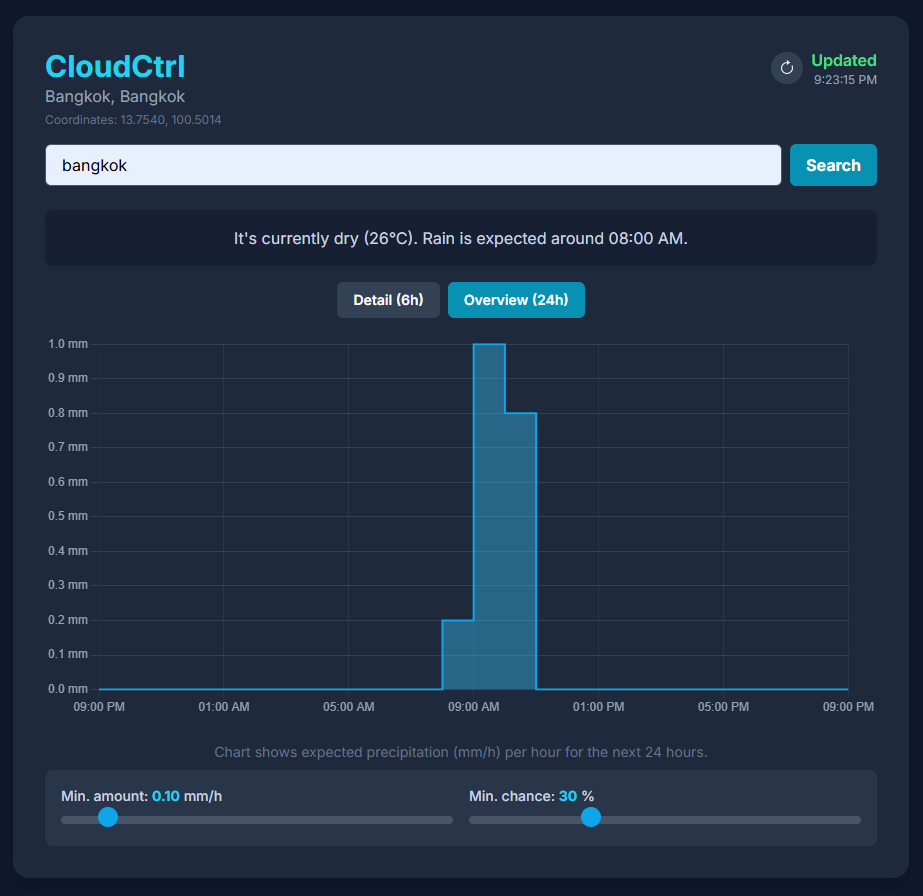
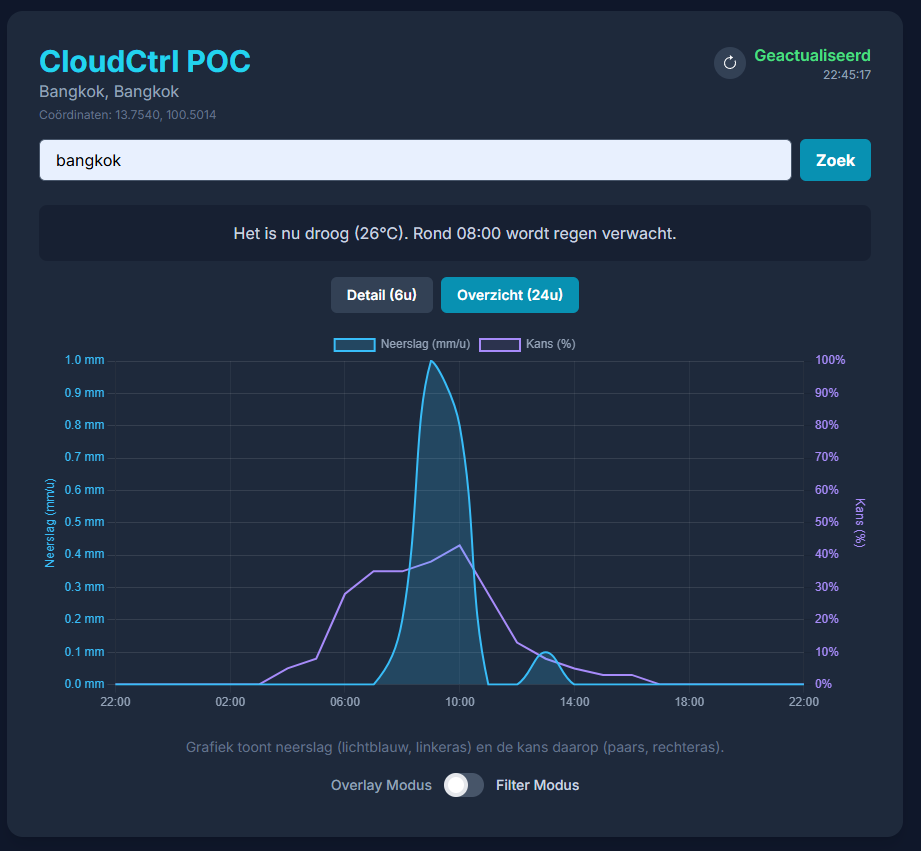
ammount and prediction

diff --git a/index.html b/index.html
@@ -1,9 +1,9 @@
 <!DOCTYPE html>
-<html lang="en">
+<html lang="nl">
 <head>
     <meta charset="UTF-8">
     <meta name="viewport" content="width=device-width, initial-scale=1.0">
-    <title>CloudCtrl</title>
+    <title>CloudCtrl POC (met Overlay Modus)</title>
     
     <script src="https://cdn.tailwindcss.com"></script>
     <script src="https://cdn.jsdelivr.net/npm/chart.js"></script>
@@ -15,8 +15,14 @@
         body { font-family: 'Inter', sans-serif; }
         .loader { border: 4px solid rgba(255, 255, 255, 0.2); border-left-color: #0ea5e9; border-radius: 50%; width: 40px; height: 40px; animation: spin 1s linear infinite; }
         @keyframes spin { to { transform: rotate(360deg); } }
+        
+        /* Stijlen voor de schuifregelaar */
         input[type=range]::-webkit-slider-thumb { -webkit-appearance: none; appearance: none; width: 20px; height: 20px; background: #0ea5e9; cursor: pointer; border-radius: 50%; margin-top: -6px; }
         input[type=range]::-moz-range-thumb { width: 20px; height: 20px; background: #0ea5e9; cursor: pointer; border-radius: 50%; }
+        
+        /* Stijlen voor de nieuwe toggle switch */
+        .toggle-checkbox:checked { right: 0; border-color: #0ea5e9; }
+        .toggle-checkbox:checked + .toggle-label { background-color: #0ea5e9; }
     </style>
 </head>
 <body class="bg-slate-900 text-white flex items-center justify-center min-h-screen p-4">
@@ -26,31 +32,31 @@
         <div class="mb-6">
              <div class="flex justify-between items-start mb-4">
                  <div>
-                     <h1 class="text-2xl md:text-3xl font-bold text-cyan-400">CloudCtrl</h1>
-                     <p id="location" class="text-slate-400">Requesting location...</p>
+                     <h1 class="text-2xl md:text-3xl font-bold text-cyan-400">CloudCtrl POC</h1>
+                     <p id="location" class="text-slate-400">Locatie opvragen...</p>
                      <p id="locationDetails" class="text-xs text-slate-500 mt-1"></p>
                  </div>
                  <div id="status" class="flex items-center gap-2 text-right">
-                      <button id="refreshButton" class="p-2 rounded-full bg-slate-700 hover:bg-slate-600 transition-colors" title="Refresh data">
+                      <button id="refreshButton" class="p-2 rounded-full bg-slate-700 hover:bg-slate-600 transition-colors" title="Ververs de data">
                           <svg xmlns="http://www.w3.org/2000/svg" width="16" height="16" fill="currentColor" class="bi bi-arrow-clockwise" viewBox="0 0 16 16"><path fill-rule="evenodd" d="M8 3a5 5 0 1 0 4.546 2.914.5.5 0 0 1 .908-.417A6 6 0 1 1 8 2z"/><path d="M8 4.466V.534a.25.25 0 0 1 .41-.192l2.36 1.966c.12.1.12.284 0 .384L8.41 4.658A.25.25 0 0 1 8 4.466"/></svg>
                       </button>
-                      <div id="statusText"><p class="font-semibold text-slate-300">Loading...</p></div>
+                      <div id="statusText"><p class="font-semibold text-slate-300">Laden...</p></div>
                  </div>
-             </div>
+            </div>
             
-             <form id="locationForm" class="flex flex-col sm:flex-row gap-2">
-                 <input type="text" id="locationInput" placeholder="Search for a city or address..." class="flex-grow bg-slate-700 border border-slate-600 rounded-md px-4 py-2 text-white placeholder-slate-400 focus:outline-none focus:ring-2 focus:ring-cyan-500">
-                 <button type="submit" class="bg-cyan-600 hover:bg-cyan-700 text-white font-bold py-2 px-4 rounded-md transition-colors">Search</button>
-             </form>
+            <form id="locationForm" class="flex flex-col sm:flex-row gap-2">
+                <input type="text" id="locationInput" placeholder="Zoek een plaats of adres..." class="flex-grow bg-slate-700 border border-slate-600 rounded-md px-4 py-2 text-white placeholder-slate-400 focus:outline-none focus:ring-2 focus:ring-cyan-500">
+                <button type="submit" class="bg-cyan-600 hover:bg-cyan-700 text-white font-bold py-2 px-4 rounded-md transition-colors">Zoek</button>
+            </form>
         </div>
 
         <div class="bg-slate-900/50 p-4 rounded-lg mb-4 text-center">
-            <p id="forecastSummary" class="text-slate-300">Forecast is loading...</p>
+            <p id="forecastSummary" class="text-slate-300">Voorspelling wordt geladen...</p>
         </div>
 
         <div id="viewToggle" class="flex justify-center mb-4 space-x-2">
-            <button id="btnDetail" class="bg-cyan-600 text-white font-semibold py-2 px-4 rounded-md transition-colors text-sm">Detail (6h)</button>
-            <button id="btnOverview" class="bg-slate-700 hover:bg-slate-600 text-white font-semibold py-2 px-4 rounded-md transition-colors text-sm">Overview (24h)</button>
+            <button id="btnDetail" class="bg-cyan-600 text-white font-semibold py-2 px-4 rounded-md transition-colors text-sm">Detail (6u)</button>
+            <button id="btnOverview" class="bg-slate-700 hover:bg-slate-600 text-white font-semibold py-2 px-4 rounded-md transition-colors text-sm">Overzicht (24u)</button>
         </div>
 
         <div class="relative h-64 md:h-96">
@@ -59,14 +65,25 @@
         </div>
         
         <div class="mt-6 space-y-2">
-            <p id="chartLegend" class="text-center text-slate-500 text-sm">Chart is loading...</p>
-            <div class="p-4 bg-slate-700/50 rounded-lg grid grid-cols-1 md:grid-cols-2 gap-4">
+            <p id="chartLegend" class="text-center text-slate-500 text-sm">Grafiek wordt geladen...</p>
+            
+            <!-- NIEUW: Toggle switch voor filter/overlay modus -->
+            <div class="flex items-center justify-center p-2">
+                 <span class="mr-3 text-sm font-medium text-slate-400">Overlay Modus</span>
+                <div class="relative inline-block w-10 align-middle select-none">
+                    <input type="checkbox" name="filterToggle" id="filterToggle" class="toggle-checkbox absolute block w-6 h-6 rounded-full bg-white border-4 appearance-none cursor-pointer"/>
+                    <label for="filterToggle" class="toggle-label block overflow-hidden h-6 rounded-full bg-slate-600 cursor-pointer"></label>
+                </div>
+                 <span class="ml-3 text-sm font-medium text-slate-300">Filter Modus</span>
+            </div>
+
+            <div id="filterControls" class="p-4 bg-slate-700/50 rounded-lg grid grid-cols-1 md:grid-cols-2 gap-4">
                 <div>
-                    <label for="amountThresholdSlider" class="block text-sm font-medium text-slate-300">Min. amount: <span id="amountThresholdValue" class="font-bold text-cyan-400">0.10</span> mm/h</label>
+                    <label for="amountThresholdSlider" class="block text-sm font-medium text-slate-300">Min. hoeveelheid: <span id="amountThresholdValue" class="font-bold text-cyan-400">0.10</span> mm/u</label>
                     <input type="range" id="amountThresholdSlider" min="0" max="1" step="0.05" value="0.1" class="w-full h-2 bg-slate-600 rounded-lg appearance-none cursor-pointer mt-2">
                 </div>
                 <div>
-                    <label for="probThresholdSlider" class="block text-sm font-medium text-slate-300">Min. chance: <span id="probThresholdValue" class="font-bold text-cyan-400">30</span> %</label>
+                    <label for="probThresholdSlider" class="block text-sm font-medium text-slate-300">Min. kans: <span id="probThresholdValue" class="font-bold text-cyan-400">30</span> %</label>
                     <input type="range" id="probThresholdSlider" min="0" max="100" step="5" value="30" class="w-full h-2 bg-slate-600 rounded-lg appearance-none cursor-pointer mt-2">
                 </div>
             </div>
@@ -74,36 +91,38 @@
     </div>
 
     <script>
-        // --- DOM ELEMENTS ---
-        const chartCanvas = document.getElementById('rainChart'), statusText = document.getElementById('statusText'), locationElement = document.getElementById('location'), locationDetails = document.getElementById('locationDetails'), locationForm = document.getElementById('locationForm'), locationInput = document.getElementById('locationInput'), btnDetail = document.getElementById('btnDetail'), btnOverview = document.getElementById('btnOverview'), chartLegend = document.getElementById('chartLegend'), refreshButton = document.getElementById('refreshButton'), chartLoader = document.getElementById('chartLoader'), forecastSummary = document.getElementById('forecastSummary'), amountThresholdSlider = document.getElementById('amountThresholdSlider'), amountThresholdValue = document.getElementById('amountThresholdValue'), probThresholdSlider = document.getElementById('probThresholdSlider'), probThresholdValue = document.getElementById('probThresholdValue');
+        // --- DOM ELEMENTEN ---
+        const chartCanvas = document.getElementById('rainChart'), statusText = document.getElementById('statusText'), locationElement = document.getElementById('location'), locationDetails = document.getElementById('locationDetails'), locationForm = document.getElementById('locationForm'), locationInput = document.getElementById('locationInput'), btnDetail = document.getElementById('btnDetail'), btnOverview = document.getElementById('btnOverview'), chartLegend = document.getElementById('chartLegend'), refreshButton = document.getElementById('refreshButton'), chartLoader = document.getElementById('chartLoader'), forecastSummary = document.getElementById('forecastSummary'), amountThresholdSlider = document.getElementById('amountThresholdSlider'), amountThresholdValue = document.getElementById('amountThresholdValue'), probThresholdSlider = document.getElementById('probThresholdSlider'), probThresholdValue = document.getElementById('probThresholdValue'), filterToggle = document.getElementById('filterToggle'), filterControls = document.getElementById('filterControls');
 
-        // --- GLOBAL STATE ---
+        // --- GLOBALE STATE ---
         let myChart = null, fullWeatherData = null, currentView = 'detail', currentLocation = { lat: null, lon: null };
 
-        // --- INITIALIZATION ---
+        // --- INITIATIE ---
         document.addEventListener('DOMContentLoaded', () => {
-            if (navigator.geolocation) { updateStatus('Requesting location...', 'yellow'); navigator.geolocation.getCurrentPosition(onGeoSuccess, onGeoError); } else { geocodeAndFetchWeather('London'); }
+            filterToggle.checked = true; // Start in filter modus
+            if (navigator.geolocation) { updateStatus('Locatie opvragen...', 'yellow'); navigator.geolocation.getCurrentPosition(onGeoSuccess, onGeoError); } else { geocodeAndFetchWeather('Almere'); }
             locationForm.addEventListener('submit', (e) => { e.preventDefault(); if (locationInput.value) geocodeAndFetchWeather(locationInput.value); });
             btnDetail.addEventListener('click', () => switchView('detail'));
             btnOverview.addEventListener('click', () => switchView('overview'));
             refreshButton.addEventListener('click', () => { if (currentLocation.lat) fetchWeatherData(currentLocation.lat, currentLocation.lon); });
             amountThresholdSlider.addEventListener('input', () => { amountThresholdValue.textContent = parseFloat(amountThresholdSlider.value).toFixed(2); updateChartView(); });
             probThresholdSlider.addEventListener('input', () => { probThresholdValue.textContent = probThresholdSlider.value; updateChartView(); });
+            filterToggle.addEventListener('change', () => {
+                filterControls.style.display = filterToggle.checked ? 'grid' : 'none';
+                updateChartView();
+            });
         });
         
         function updateStatus(message, color = 'slate', subtext = '') { const colors = { yellow: 'text-yellow-400', green: 'text-green-400', red: 'text-red-500', slate: 'text-slate-300' }; statusText.innerHTML = `<p class="font-semibold ${colors[color]}">${message}</p>${subtext ? `<p class="text-xs text-slate-400">${subtext}</p>` : ''}`; }
         
-        // --- VIEW & DATA ---
         function switchView(view) {
             currentView = view;
              if (view === 'detail') {
                  btnDetail.className = 'bg-cyan-600 text-white font-semibold py-2 px-4 rounded-md transition-colors text-sm';
                  btnOverview.className = 'bg-slate-700 hover:bg-slate-600 text-white font-semibold py-2 px-4 rounded-md transition-colors text-sm';
-                 chartLegend.textContent = 'Chart shows expected precipitation (mm/h) per 15 min. for the next 6 hours.';
              } else {
                  btnOverview.className = 'bg-cyan-600 text-white font-semibold py-2 px-4 rounded-md transition-colors text-sm';
                  btnDetail.className = 'bg-slate-700 hover:bg-slate-600 text-white font-semibold py-2 px-4 rounded-md transition-colors text-sm';
-                 chartLegend.textContent = 'Chart shows expected precipitation (mm/h) per hour for the next 24 hours.';
              }
              updateChartView();
         }
@@ -112,79 +131,85 @@
             const { latitude: lat, longitude: lon } = position.coords;
             currentLocation = { lat, lon };
             try {
-                const url = `https://nominatim.openstreetmap.org/reverse?format=jsonv2&lat=${lat}&lon=${lon}&accept-language=en`;
+                const url = `https://nominatim.openstreetmap.org/reverse?format=jsonv2&lat=${lat}&lon=${lon}&accept-language=nl`;
                 const response = await fetch(url);
                 const data = await response.json();
-                locationElement.textContent = data.display_name || `Current Location`;
-            } catch { locationElement.textContent = `Current Location`; }
-            locationDetails.textContent = `Coordinates: ${lat.toFixed(4)}, ${lon.toFixed(4)}`;
+                locationElement.textContent = data.display_name || `Huidige Locatie`;
+            } catch { locationElement.textContent = `Huidige Locatie`; }
+            locationDetails.textContent = `Coördinaten: ${lat.toFixed(4)}, ${lon.toFixed(4)}`;
             fetchWeatherData(lat, lon);
         }
 
-        function onGeoError(error) { locationElement.textContent = `Could not find current location.`; geocodeAndFetchWeather('New York'); }
+        function onGeoError(error) { locationElement.textContent = `Kon huidige locatie niet vinden.`; geocodeAndFetchWeather('Utrecht'); }
 
         async function geocodeAndFetchWeather(locationName) {
-            updateStatus('Searching location...', 'yellow');
+            updateStatus('Locatie zoeken...', 'yellow');
             chartLoader.style.display = 'flex';
-            forecastSummary.textContent = 'Forecast is loading...';
+            forecastSummary.textContent = 'Voorspelling wordt geladen...';
             try {
-                const geocodeUrl = `https://geocoding-api.open-meteo.com/v1/search?name=${encodeURIComponent(locationName)}&count=1&language=en&format=json`;
+                const geocodeUrl = `https://geocoding-api.open-meteo.com/v1/search?name=${encodeURIComponent(locationName)}&count=1&language=nl&format=json`;
                 const response = await fetch(geocodeUrl);
                 const geoData = await response.json();
-                if (!geoData.results?.length) throw new Error('Location not found.');
+                if (!geoData.results?.length) throw new Error('Locatie niet gevonden.');
                 const { name, admin1, country, latitude, longitude } = geoData.results[0];
                 currentLocation = { lat: latitude, lon: longitude };
                 locationElement.textContent = `${name}, ${admin1 || country}`;
-                locationDetails.textContent = `Coordinates: ${latitude.toFixed(4)}, ${longitude.toFixed(4)}`;
+                locationDetails.textContent = `Coördinaten: ${latitude.toFixed(4)}, ${longitude.toFixed(4)}`;
                 fetchWeatherData(latitude, longitude);
-            } catch (error) { updateStatus('Location error', 'red', error.message); chartLoader.style.display = 'none'; }
+            } catch (error) { updateStatus('Locatiefout', 'red', error.message); chartLoader.style.display = 'none'; }
         }
 
         async function fetchWeatherData(latitude, longitude) {
-            updateStatus('Fetching data...', 'yellow');
+            updateStatus('Data ophalen...', 'yellow');
             chartLoader.style.display = 'flex';
             const apiUrl = `https://api.open-meteo.com/v1/forecast?latitude=${latitude}&longitude=${longitude}&hourly=precipitation,precipitation_probability,temperature_2m,weathercode&minutely_15=precipitation,precipitation_probability&forecast_days=2`;
             try {
                 const response = await fetch(apiUrl);
-                if (!response.ok) throw new Error(`Network error: ${response.statusText}`);
+                if (!response.ok) throw new Error(`Netwerkfout: ${response.statusText}`);
                 fullWeatherData = await response.json();
                 switchView(currentView);
                 createForecastSummary();
                 const now = new Date();
-                updateStatus('Updated', 'green', now.toLocaleTimeString('en-US'));
-            } catch (error) { updateStatus('Fetch failed', 'red', error.message);
+                updateStatus('Geactualiseerd', 'green', now.toLocaleTimeString('nl-NL'));
+            } catch (error) { updateStatus('Ophalen mislukt', 'red', error.message);
             } finally { chartLoader.style.display = 'none'; }
         }
         
         function createForecastSummary() {
-            if (!fullWeatherData?.hourly) { forecastSummary.textContent = "No forecast available."; return; }
+             if (!fullWeatherData?.hourly) { forecastSummary.textContent = "Geen voorspelling beschikbaar."; return; }
             const { time, precipitation, temperature_2m, weathercode, precipitation_probability } = fullWeatherData.hourly;
             const now = new Date();
             const startIndex = time.findIndex(t => new Date(t) >= now);
-            if (startIndex === -1) { forecastSummary.textContent = "Forecast is in the past."; return; }
+            if (startIndex === -1) { forecastSummary.textContent = "Voorspelling is voorbij."; return; }
 
             const amountThreshold = parseFloat(amountThresholdSlider.value);
             const probThreshold = parseInt(probThresholdSlider.value);
-
             const nextRainIndex = precipitation.slice(startIndex).findIndex((p, i) => p > amountThreshold && precipitation_probability[startIndex + i] > probThreshold);
-            
             const currentTemp = Math.round(temperature_2m[startIndex]);
-            const currentDescription = { 0: "Clear sky", 1: "Mainly clear", 2: "Partly cloudy", 3: "Overcast", 45: "Fog", 61: "Slight rain", 63: "Moderate rain", 65: "Heavy rain", 80: "Slight showers", 81: "Moderate showers", 82: "Violent showers" }[weathercode[startIndex]] || "Unknown";
+            const currentDescription = { 0: "Heldere hemel", 1: "Grotendeels helder", 2: "Deels bewolkt", 3: "Bewolkt", 45: "Mist", 61: "Lichte regen", 63: "Matige regen", 65: "Zware regen", 80: "Lichte buien", 81: "Matige buien", 82: "Zware buien" }[weathercode[startIndex]] || "Onbekend";
 
             if (nextRainIndex === -1) {
-                forecastSummary.textContent = `It will remain dry for the next few hours. It is currently ${currentTemp}°C and ${currentDescription.toLowerCase()}.`;
-            } else if (nextRainIndex < 2) { // Raining now or in the next hour
-                forecastSummary.textContent = `It's raining or will be very shortly. Current temperature is ${currentTemp}°C.`;
+                forecastSummary.textContent = `Het blijft de komende uren droog. Het is nu ${currentTemp}°C en ${currentDescription.toLowerCase()}.`;
+            } else if (nextRainIndex < 2) {
+                forecastSummary.textContent = `Het regent nu of zeer binnenkort. Het is ${currentTemp}°C.`;
             } else {
-                const rainTime = new Date(time[startIndex + nextRainIndex]).toLocaleTimeString('en-US', { hour: '2-digit', minute: '2-digit' });
-                forecastSummary.textContent = `It's currently dry (${currentTemp}°C). Rain is expected around ${rainTime}.`;
+                const rainTime = new Date(time[startIndex + nextRainIndex]).toLocaleTimeString('nl-NL', { hour: '2-digit', minute: '2-digit' });
+                forecastSummary.textContent = `Het is nu droog (${currentTemp}°C). Rond ${rainTime} wordt regen verwacht.`;
             }
         }
 
-        // --- CHART LOGIC ---
+        // --- GRAFIEK LOGICA ---
         function updateChartView() {
             if (!fullWeatherData) return;
             const apiData = currentView === 'detail' ? fullWeatherData.minutely_15 : fullWeatherData.hourly;
+            
+            // Verander de legenda tekst op basis van de modus
+            if (filterToggle.checked) {
+                chartLegend.textContent = 'Grafiek toont de verwachte neerslag (mm/u). De kleurintensiteit geeft de zekerheid (%) aan.';
+            } else {
+                chartLegend.textContent = 'Grafiek toont neerslag (lichtblauw, linkeras) en de kans daarop (paars, rechteras).';
+            }
+            
             processAndDisplayChart(apiData);
         }
 
@@ -193,51 +218,66 @@
                 if (myChart) myChart.destroy(); return;
             }
             
-            const amountThreshold = parseFloat(amountThresholdSlider.value);
-            const probThreshold = parseInt(probThresholdSlider.value);
-
             const now = new Date();
             let startIndex = apiData.time.findIndex(t => new Date(t) >= now);
             if (startIndex > 0) startIndex--;
 
             const sliceCount = currentView === 'detail' ? (6 * 4) + 1 : 25;
             const endIndex = Math.min(startIndex + sliceCount, apiData.time.length);
-
-            const labels = apiData.time.slice(startIndex, endIndex).map(t => new Date(t).toLocaleTimeString('en-US', { hour: '2-digit', minute: '2-digit' }));
-            
-            const amounts = apiData.precipitation.slice(startIndex, endIndex);
-            const probabilities = apiData.precipitation_probability.slice(startIndex, endIndex);
-            const precipitationData = amounts.map((amount, i) => {
-                return (amount >= amountThreshold && probabilities[i] >= probThreshold) ? amount : 0;
-            });
+            const labels = apiData.time.slice(startIndex, endIndex).map(t => new Date(t).toLocaleTimeString('nl-NL', { hour: '2-digit', minute: '2-digit' }));
             
             if (myChart) myChart.destroy();
-
-            const isDetailView = currentView === 'detail';
-            const datasetOptions = {
-                label: 'Precipitation (mm/h)',
-                data: precipitationData,
-                backgroundColor: 'rgba(56, 189, 248, 0.4)',
-                borderColor: '#0ea5e9',
-                borderWidth: 2,
-                pointRadius: 0,
-                fill: true,
-                stepped: !isDetailView,
-                tension: isDetailView ? 0.4 : 0,
-            };
-
-            myChart = new Chart(chartCanvas, {
-                type: 'line',
-                data: { labels: labels, datasets: [datasetOptions] },
-                options: {
-                    responsive: true, maintainAspectRatio: false,
-                    plugins: { legend: { display: false }, tooltip: { callbacks: { title: (items) => `Time: ${items[0].label}`, label: (item) => `Precipitation: ${item.raw.toFixed(2)} mm/h` } } },
-                    scales: {
-                        x: { ticks: { color: '#94a3b8', maxRotation: 0, autoSkip: true, maxTicksLimit: isDetailView ? 7 : 8 }, grid: { color: 'rgba(255, 255, 255, 0.05)' } },
-                        y: { beginAtZero: true, grid: { color: 'rgba(255, 255, 255, 0.1)' }, ticks: { color: '#94a3b8', callback: value => value.toFixed(1) + ' mm' } }
+            
+            if (filterToggle.checked) {
+                // --- FILTER MODUS LOGICA ---
+                const amountThreshold = parseFloat(amountThresholdSlider.value);
+                const probThreshold = parseInt(probThresholdSlider.value);
+                const amounts = apiData.precipitation.slice(startIndex, endIndex);
+                const probabilities = apiData.precipitation_probability.slice(startIndex, endIndex);
+                
+                const precipitationData = amounts.map((amount, i) => (amount >= amountThreshold && probabilities[i] >= probThreshold) ? amount : 0);
+                const pointColors = probabilities.map((prob, i) => {
+                    const amount = amounts[i];
+                    if (amount >= amountThreshold && prob >= probThreshold) {
+                        const alpha = Math.max(0.15, prob / 100);
+                        return `rgba(56, 189, 248, ${alpha})`;
                     }
-                }
-            });
+                    return 'rgba(56, 189, 248, 0)';
+                });
+
+                myChart = new Chart(chartCanvas, {
+                    type: 'line',
+                    data: { labels: labels, datasets: [{
+                        label: 'Neerslag (mm/u)', data: precipitationData, backgroundColor: pointColors, borderColor: pointColors.map(c => c.replace(/, [0-9\.]+\)/, ', 1)')), borderWidth: 2, pointRadius: 0, fill: true, stepped: currentView !== 'detail', tension: currentView === 'detail' ? 0.4 : 0,
+                    }] },
+                    options: { responsive: true, maintainAspectRatio: false, plugins: { legend: { display: false }, tooltip: { callbacks: { title: (items) => `Tijd: ${items[0].label}`, label: (item) => { const index = item.dataIndex + startIndex; const originalProb = apiData.precipitation_probability[index]; return item.raw > 0 ? `Neerslag: ${item.raw.toFixed(2)} mm/u (Kans: ${originalProb}%)` : null; } } } }, scales: { x: { ticks: { color: '#94a3b8', maxRotation: 0, autoSkip: true, maxTicksLimit: 7 }, grid: { color: 'rgba(255, 255, 255, 0.05)' } }, y: { beginAtZero: true, grid: { color: 'rgba(255, 255, 255, 0.1)' }, ticks: { color: '#94a3b8', callback: value => value.toFixed(1) + ' mm' } } } }
+                });
+
+            } else {
+                // --- OVERLAY MODUS LOGICA ---
+                const amountData = apiData.precipitation.slice(startIndex, endIndex);
+                const probData = apiData.precipitation_probability.slice(startIndex, endIndex);
+
+                myChart = new Chart(chartCanvas, {
+                    type: 'line',
+                    data: {
+                        labels: labels,
+                        datasets: [
+                            { label: 'Neerslag (mm/u)', data: amountData, yAxisID: 'yAmount', borderColor: 'rgba(56, 189, 248, 1)', backgroundColor: 'rgba(56, 189, 248, 0.2)', borderWidth: 2, pointRadius: 0, fill: true, tension: 0.4 },
+                            { label: 'Kans (%)', data: probData, yAxisID: 'yProb', borderColor: 'rgba(167, 139, 250, 1)', backgroundColor: 'rgba(167, 139, 250, 0.1)', borderWidth: 2, pointRadius: 0, fill: false }
+                        ]
+                    },
+                    options: {
+                        responsive: true, maintainAspectRatio: false, interaction: { mode: 'index', intersect: false },
+                        plugins: { legend: { display: true, labels: { color: '#94a3b8' } }, tooltip: { mode: 'index', intersect: false } },
+                        scales: {
+                            x: { ticks: { color: '#94a3b8', maxRotation: 0, autoSkip: true, maxTicksLimit: 7 }, grid: { color: 'rgba(255, 255, 255, 0.05)' } },
+                            yAmount: { type: 'linear', position: 'left', beginAtZero: true, grid: { color: 'rgba(255, 255, 255, 0.1)' }, ticks: { color: '#38bdf8', callback: v => v.toFixed(1) + ' mm' }, title: { display: true, text: 'Neerslag (mm/u)', color: '#38bdf8' } },
+                            yProb: { type: 'linear', position: 'right', min: 0, max: 100, grid: { drawOnChartArea: false }, ticks: { color: '#a78bfa', callback: v => v + '%' }, title: { display: true, text: 'Kans (%)', color: '#a78bfa' } }
+                        }
+                    }
+                });
+            }
         }
     </script>
 </body>
